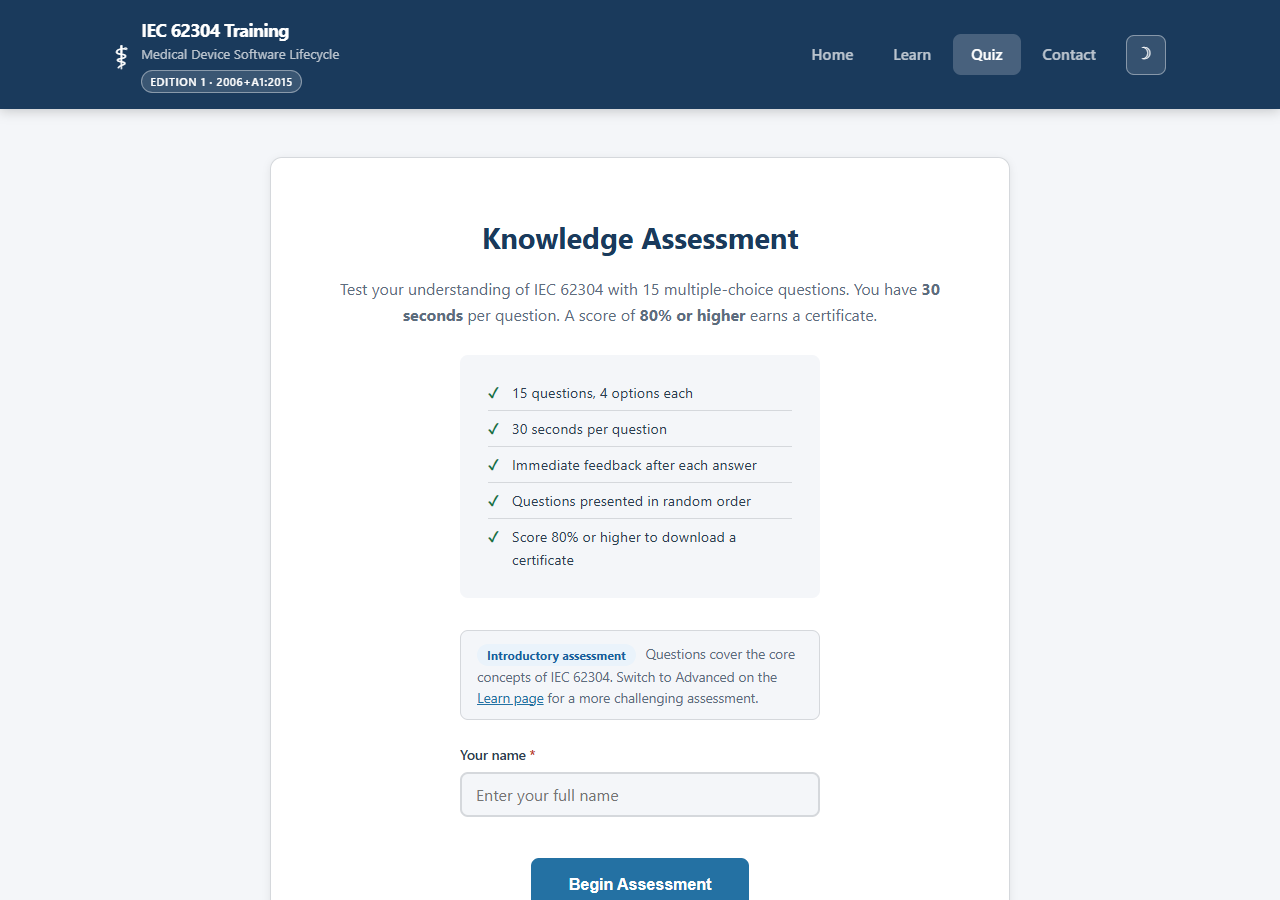
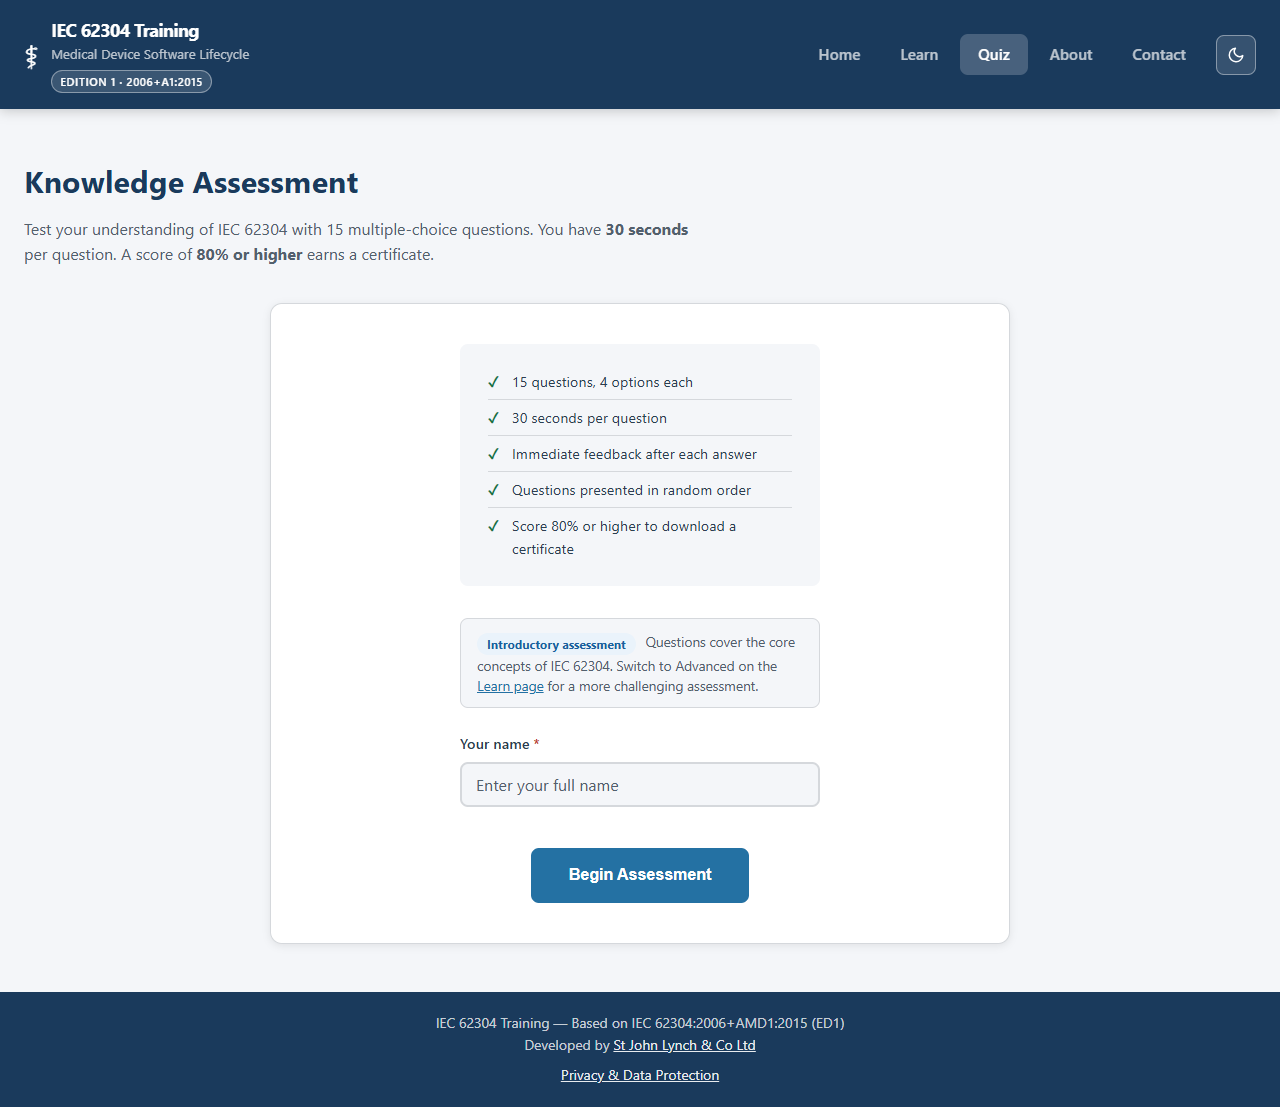
Responding to good feedback  in class for consistency of quiz page to other pages.  Split into H1 and add .page-header similar to other pages with left-aligned, full-width.  The card underneath provides the content for entering name and showcases which level of quiz is being run.

diff --git a/style.css b/style.css
@@ -1940,7 +1940,7 @@ a {
 /* ===== QUIZ: NAME FIELD ===== */
 
 /* Constrains the name input to match the quiz-rules width and left-aligns
-   the label, overriding the quiz-intro's centred text alignment. */
+   the label, overriding .quiz-start-card's centred text alignment. */
 .quiz-name-group {
   max-width: 360px;
   margin: 0 auto 24px;
@@ -1949,10 +1949,14 @@ a {
 
 /* ===== QUIZ: LAYOUT ===== */
 
+/* The 740px reading/card width used to live here, centring the whole
+   screen — including the heading, which every other page shows full-width
+   and left-aligned via .page-header. That width now lives on each screen's
+   own card instead (.quiz-start-card, .quiz-header, .question-card,
+   .question-feedback, .results-card), so .page-header can sit above them
+   at the same left-aligned position it has on every other page. */
 .quiz-screen {
   display: none;
-  max-width: 740px;
-  margin: 0 auto;
 }
 
 .quiz-screen.active {
@@ -1961,25 +1965,18 @@ a {
 
 /* ===== QUIZ: START SCREEN ===== */
 
-.quiz-intro {
+/* Was .quiz-intro, and held the <h1> too — renamed now that the heading
+   has moved out to .page-header above, leaving this as what it actually
+   is: the card holding the checklist, name field and Begin button. */
+.quiz-start-card {
+  max-width: 740px;
+  margin: 0 auto;
   background: var(--bg-white);
   border: 1px solid var(--border);
   border-radius: var(--radius-lg);
-  padding: 56px 48px;
+  padding: 40px 48px;
   text-align: center;
   box-shadow: var(--shadow);
-}
-
-.quiz-intro h1 {
-  font-size: 1.8rem;
-  color: var(--heading);
-  margin-bottom: 16px;
-}
-
-.quiz-intro > p {
-  color: var(--text-muted);
-  margin-bottom: 28px;
-  font-size: 1rem;
 }
 
 .quiz-rules {
@@ -2022,7 +2019,8 @@ a {
   align-items: center;
   justify-content: space-between;
   gap: 20px;
-  margin-bottom: 24px;
+  max-width: 740px;
+  margin: 0 auto 24px;
   background: var(--bg-white);
   border: 1px solid var(--border);
   border-radius: var(--radius);
@@ -2085,11 +2083,12 @@ a {
 }
 
 .question-card {
+  max-width: 740px;
+  margin: 0 auto 20px;
   background: var(--bg-white);
   border: 1px solid var(--border);
   border-radius: var(--radius-lg);
   padding: 36px;
-  margin-bottom: 20px;
   box-shadow: var(--shadow);
 }
 
@@ -2145,6 +2144,8 @@ a {
 }
 
 .question-feedback {
+  max-width: 740px;
+  margin: 0 auto;
   background: var(--bg-white);
   border: 1px solid var(--border);
   border-radius: var(--radius-lg);
@@ -2170,6 +2171,8 @@ a {
 /* ===== QUIZ: RESULTS SCREEN ===== */
 
 .results-card {
+  max-width: 740px;
+  margin: 0 auto;
   background: var(--bg-white);
   border: 1px solid var(--border);
   border-radius: var(--radius-lg);
@@ -3187,7 +3190,7 @@ a {
     grid-template-columns: 1fr;
   }
 
-  .quiz-intro {
+  .quiz-start-card {
     padding: 36px 24px;
   }
 

diff --git a/quiz.html b/quiz.html
@@ -84,12 +84,19 @@
 
       <!-- Start screen -->
       <div id="quiz-start" class="quiz-screen active">
-        <div class="quiz-intro">
+        <!-- Left-aligned, full-width heading matching every other page's
+             .page-header — this used to be an <h1> centred inside the card
+             below, which made Quiz the one page whose heading didn't match
+             the rest of the site. The card now starts directly with the
+             checklist; .page-header carries the intro sentence instead. -->
+        <div class="page-header">
           <h1>Knowledge Assessment</h1>
           <!-- The .js-question-count spans hold a sensible default of 15 that is
                overwritten by quiz.js once the question file has loaded, so the
                wording always matches the data actually being used. -->
           <p>Test your understanding of IEC 62304 with <span class="js-question-count">15</span> multiple-choice questions. You have <strong>30 seconds</strong> per question. A score of <strong>80% or higher</strong> earns a certificate.</p>
+        </div>
+        <div class="quiz-start-card">
           <ul class="quiz-rules">
             <li><span class="js-question-count">15</span> questions, 4 options each</li>
             <li>30 seconds per question</li>
